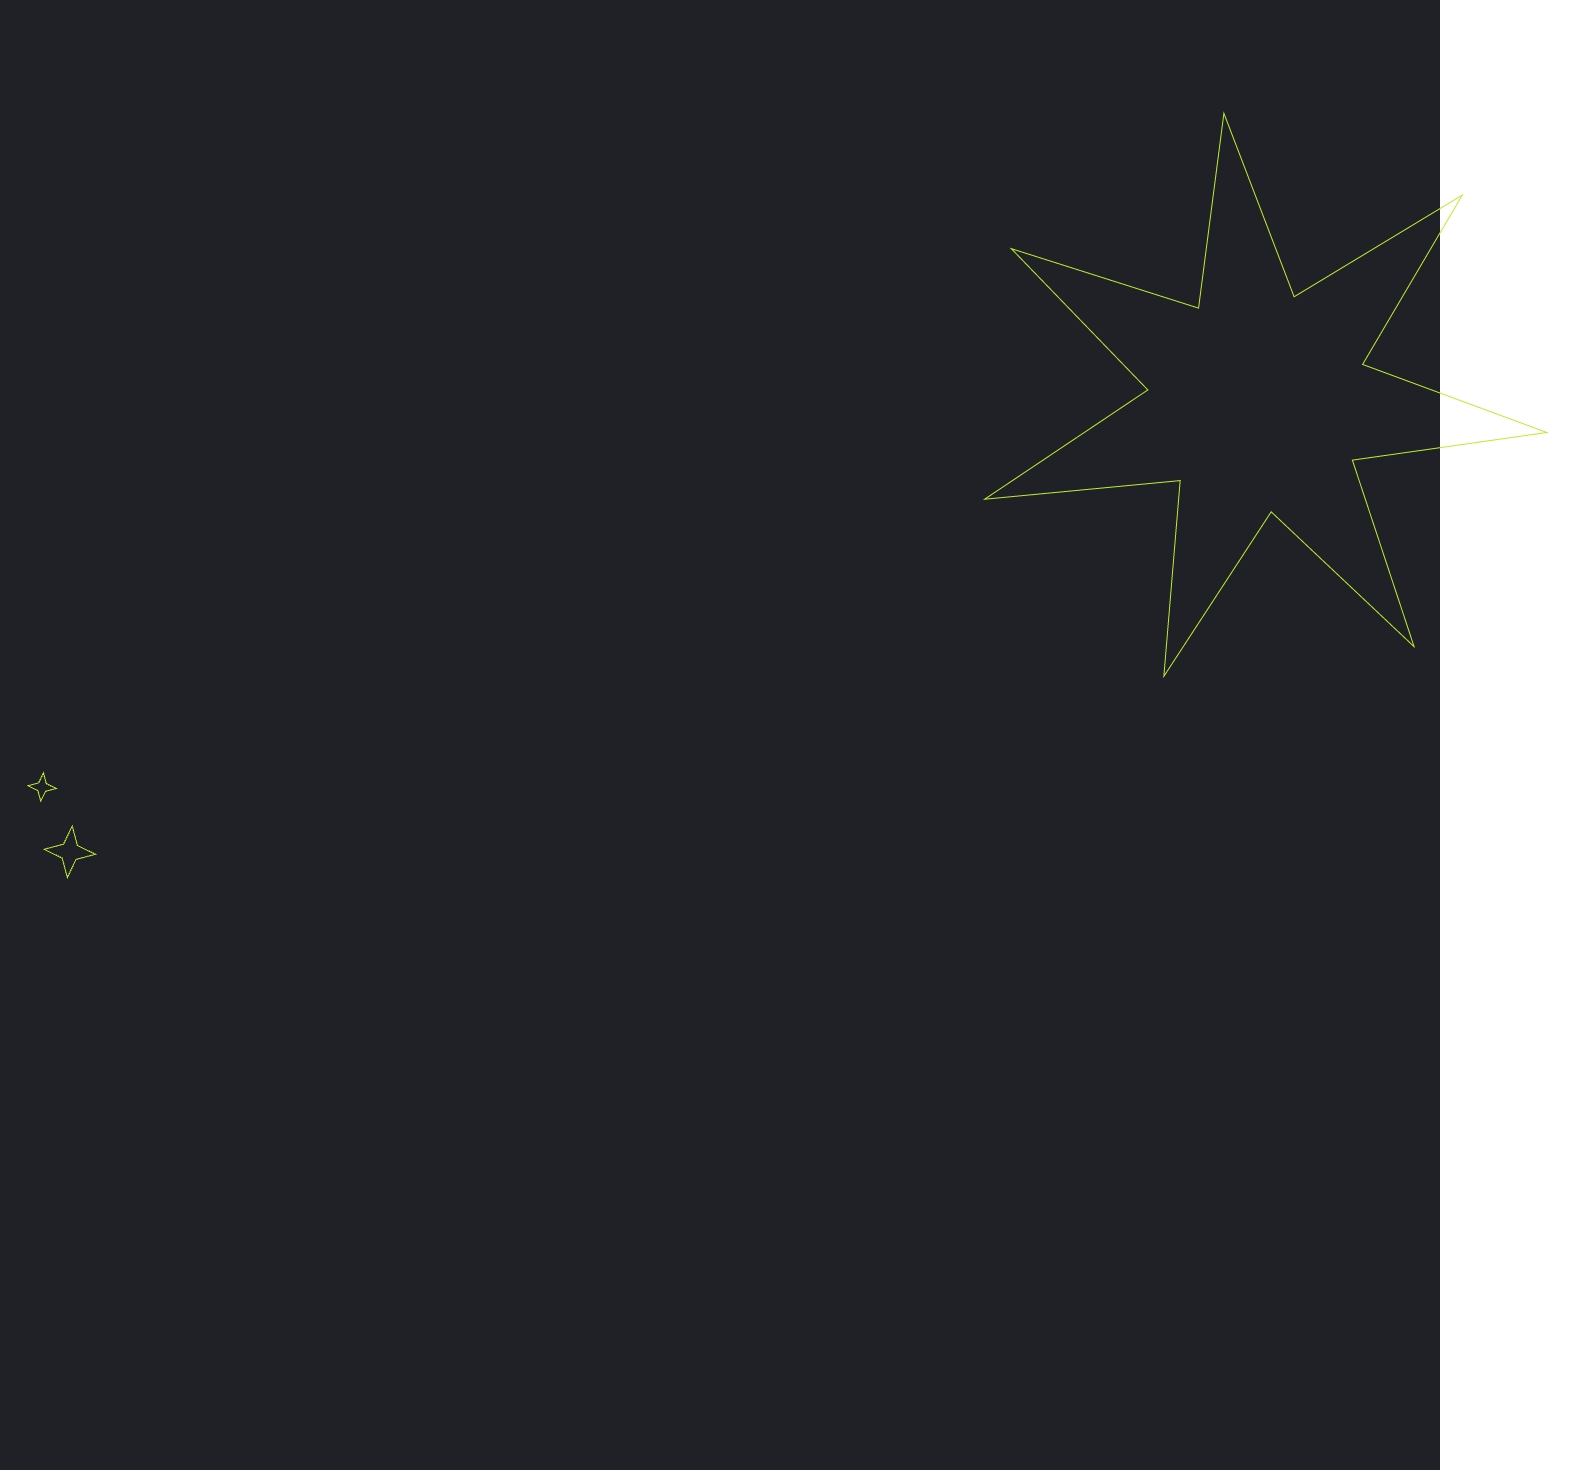
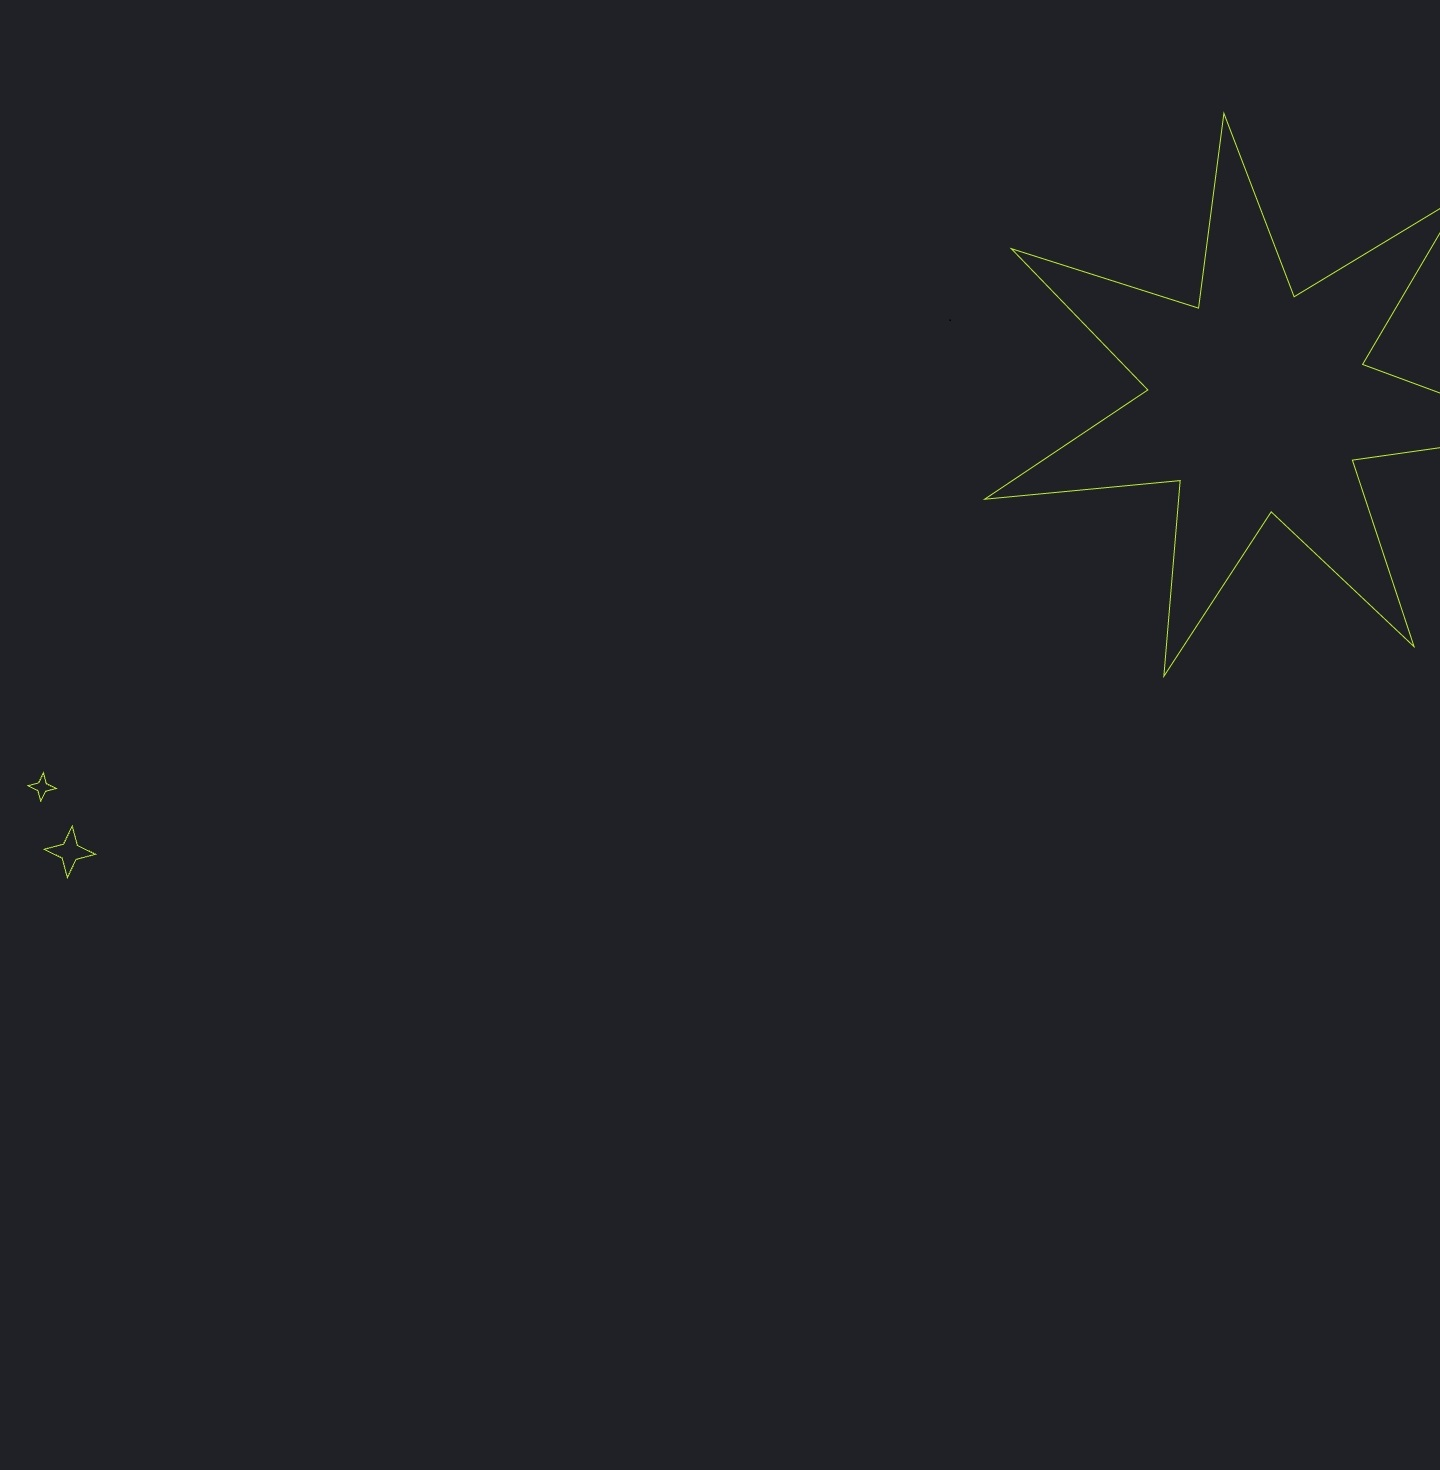
Попытка 3

diff --git a/hw1/project.html b/hw1/project.html
@@ -12,25 +12,24 @@
  
 </head>
 <body class="page">
-  <header class="header">
+  <header class="header centre">
     <div class="header__content">
      <h1 class="header__title">Добро пожаловать на мой сайт мини-игр</h1>
      <h2 class="header__subtitle">Тебе предстоит пройти несколько увлекательных игр. <br> Если готов, нажимай <span class="header__button-text">«Поехали!»</span> и <span class="header__button-text">приступай.</span></h2>
      <a href="#games" class="header__button" "> Поехали!
      </a>
     </div>
-    <div class="header__footer">   
+    <div class="header__footer ">   
     </div>      
   </header>
 
- <section class=" games " id="games">
+ <section class=" games centre " id="games">
  <div class="games__content">
    <h1 class="games__title">Об играх</h1>
    <h2 class="games__subtitle">В моей коллекции представлено 6 игр на разные темы. <br> Игры несложные — в них может поиграть каждый.<br> Все игры доступны для пользования.
    </h2>
-  
-  
-   <div class="games__list">
+ 
+   <div class="games__list ">
       <div class="game-card">
         <img class="game-card__image" src="game_1.png" alt="игра 1">
          <div class="game-card__content">

diff --git a/hw1/poject.css b/hw1/poject.css
@@ -9,14 +9,16 @@ html {
     scroll-behavior: smooth;
 }
 
-.page {
+.centre {
     padding-left: calc(50% - 720px);
     padding-right: calc(50% - 720px);
 }
 .header{
     background: rgb(225, 255, 143);
     background-image: url('back.jpeg');
-    width: 1440px;
+    background-size: cover; /* Растягиваем изображение, чтобы оно заполнило весь элемент */
+    background-position: center; /* Центрируем изображение */
+    background-repeat: no-repeat; 
     
     display: flex;
     flex-direction: column;
@@ -90,10 +92,11 @@ border: 1px solid rgba(255, 255, 255, 0.2);
 backdrop-filter: blur(50px);
 }
 .games{
-background-color: rgb(32, 32, 39);
+background: rgb(32, 32, 39);
 background-image: url(2SEC.jpeg);
-width: 1440px;
-
+background-size: cover; /* Растягиваем изображение, чтобы оно заполнило весь элемент */
+    background-position: center; /* Центрируем изображение */
+    background-repeat: no-repeat;; 
 display: flex;
 flex-direction: column;
 }
@@ -176,7 +179,4 @@ font-weight: 700;
 line-height: 39px;
 letter-spacing: 0px;
 text-align: left;
-}
-.special{
-    padding: 32px 32px 36px 32px;   
 }
